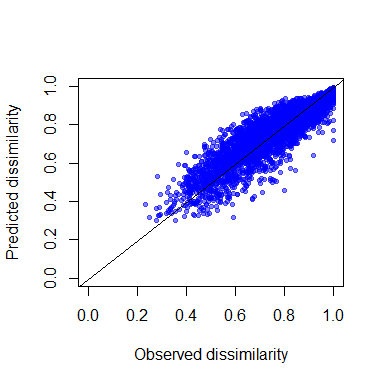
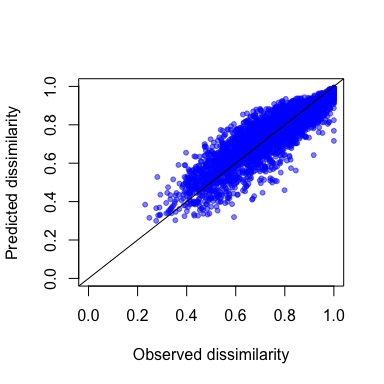
Update for new gdmDissim

diff --git a/README.md b/README.md
@@ -7,6 +7,7 @@
 
 [![CRAN_Status_Badge](https://www.r-pkg.org/badges/version/gdm?color=blue)](https://CRAN.R-project.org/package=gdm)
 [![Downloads](https://cranlogs.r-pkg.org/badges/gdm?color=blue)](https://CRAN.R-project.org/package=gdm)
+[![R-CMD-check](https://github.com/fitzLab-AL/gdm/actions/workflows/R-CMD-check.yaml/badge.svg)](https://github.com/fitzLab-AL/gdm/actions/workflows/R-CMD-check.yaml)
 <!-- badges: end -->
 
 The `gdm` package provides functions to fit, plot, summarize, and apply
@@ -38,7 +39,7 @@ devtools::install_github("fitzLab-AL/gdm")
 Fitzpatrick MC, Mokany K, Manion G, Nieto-Lugilde D, Ferrier S. (2021)
 gdm: Generalized Dissimilarity Modeling. R package version 1.5.
 
-# New update of v1.6.0
+# New update of v1.6
 
 The `gdm` package has been updated to leverage the
 [`terra`](https://cran.r-project.org/web/packages/terra/index.html)
@@ -222,23 +223,24 @@ number more depending on how many predictors are included. See
 
 What if you already have a biological distance matrix because you are
 working with, say, genetic data? In that case, it is simple as changing
-the `bioFormat` argument and providing that matrix as the `bioData` object to 
-the `sitepairformat` function. However, in addition to the pairwise dissimilarity
-values, the object must include a column containing the site IDs. Let’s have
-a quick look at `gdmDissim`, a pairwise biological distance matrix
-provided with the package (note that the first column contains site IDs):
+the `bioFormat` argument and providing that matrix as the `bioData`
+object to the `sitepairformat` function. However, in addition to the
+pairwise dissimilarity values, the object must include a column
+containing the site IDs. Let’s have a quick look at `gdmDissim`, a
+pairwise biological distance matrix provided with the package (note that
+the first column contains site IDs):
 
 ``` r
 # Biological distance matrix example
 dim(gdmDissim)
-#> [1] 94 94
+#> [1] 94 95
 gdmDissim[1:5, 1:5]
-#>          V1        V2        V3        V4        V5
-#> 1 0.0000000 0.8181818 1.0000000 0.5000000 0.7500000
-#> 2 0.8181818 0.0000000 0.9000000 0.7777778 0.6551724
-#> 3 1.0000000 0.9000000 0.0000000 1.0000000 0.5757576
-#> 4 0.5000000 0.7777778 1.0000000 0.0000000 0.9090909
-#> 5 0.7500000 0.6551724 0.5757576 0.9090909 0.0000000
+#>    site         1         2         3         4
+#> V1  881 0.0000000 0.4485981 0.7575758 0.8939394
+#> V2  882 0.4485981 0.0000000 0.5837563 0.8170732
+#> V3  883 0.7575758 0.5837563 0.0000000 0.4782609
+#> V4  884 0.8939394 0.8170732 0.4782609 0.0000000
+#> V5  885 0.9178082 0.8202247 0.5813953 0.4375000
 ```
 
 We can provide the `gdmDissim` object to `formatsitepair` as follows:
@@ -412,7 +414,7 @@ summary(gdm.1)
 #> [1] 
 #> [1] 
 #> [1] GDM Modelling Summary
-#> [1] Creation Date:  Sun Mar 17 12:05:04 2024
+#> [1] Creation Date:  Mon Mar 25 16:02:28 2024
 #> [1] 
 #> [1] Name:  gdm.1
 #> [1] 
@@ -776,7 +778,7 @@ terra::plotRGB(pcaRast, r=1, g=2, b=3)
 
 <div class="figure">
 
-<img src="man/figures/README-unnamed-chunk-10-1.png" alt="Predicted spatial variation in plant species composition. Colors represent gradients in species composition derived from transformed environmental predictors. Locations with similar colors are expected to contain similar plant communities." width="100%" />
+<img src="man/figures/README-unnamed-chunk-9-1.png" alt="Predicted spatial variation in plant species composition. Colors represent gradients in species composition derived from transformed environmental predictors. Locations with similar colors are expected to contain similar plant communities." width="100%" />
 <p class="caption">
 Predicted spatial variation in plant species composition. Colors
 represent gradients in species composition derived from transformed
